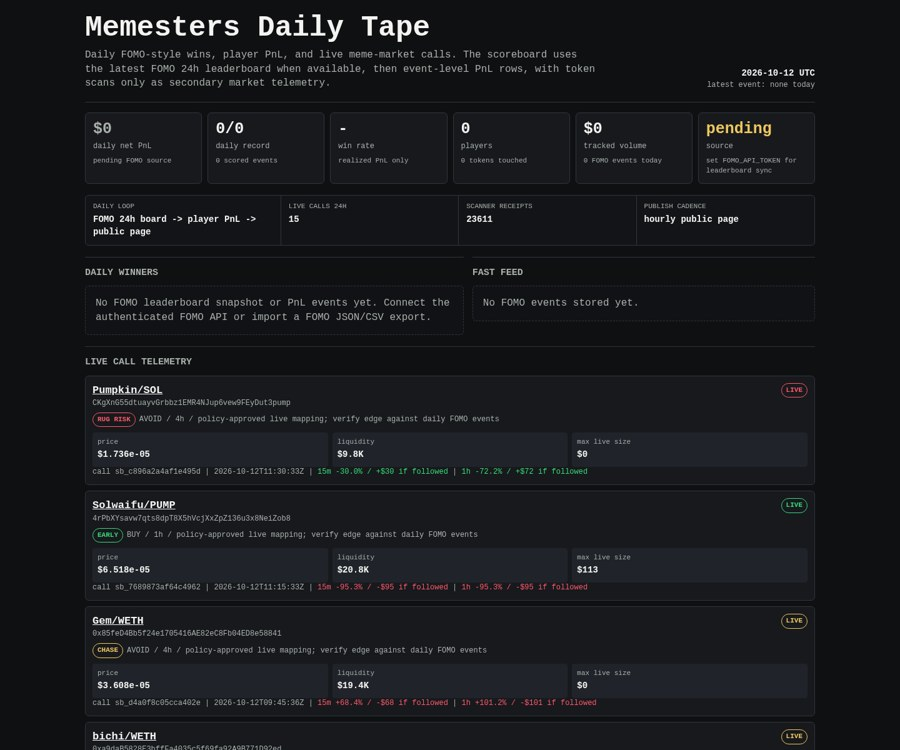
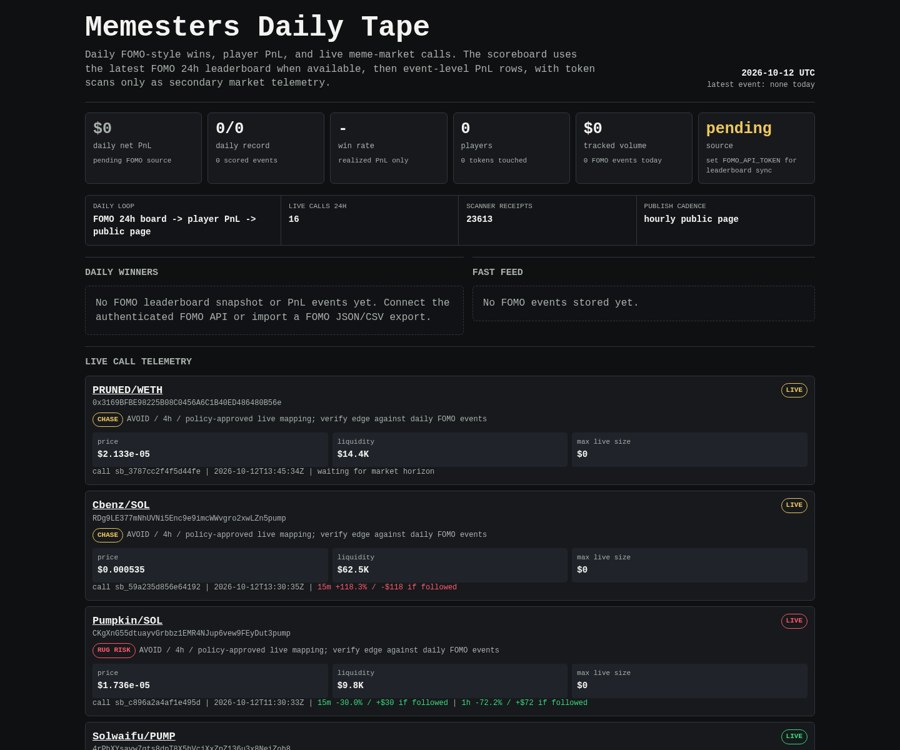
Update Memesters scoreboard

diff --git a/memesters/index.html b/memesters/index.html
@@ -149,8 +149,8 @@
 
     <div class="rail" aria-label="live operating loop">
       <div><span>daily loop</span><b>FOMO 24h board -> player PnL -> public page</b></div>
-      <div><span>live calls 24h</span><b>15</b></div>
-      <div><span>scanner receipts</span><b>23611</b></div>
+      <div><span>live calls 24h</span><b>16</b></div>
+      <div><span>scanner receipts</span><b>23613</b></div>
       <div><span>publish cadence</span><b>hourly public page</b></div>
     </div>
 
@@ -168,6 +168,48 @@
     <section style="margin-top: 18px;">
       <h2>Live Call Telemetry</h2>
       
+    <article class="receipt">
+      <div class="receipt-head">
+        <div>
+          <div class="pair"><a href="https://dexscreener.com/ethereum/0xbe0cba8c7a14c6d22000ffbb0acfc1778b2e2198c07527dd6f428ac1eff5cb42">PRUNED/WETH</a></div>
+          <div class="addr">0x3169BFBE98225B08C0456A6C1B40ED486480B56e</div>
+          <div class="addr policy-line">
+            <span class="badge chase">CHASE</span>
+            <span>AVOID / 4h / policy-approved live mapping; verify edge against daily FOMO events</span>
+          </div>
+        </div>
+        <span class="badge chase">LIVE</span>
+      </div>
+      <div class="receipt-grid">
+        <div class="kv"><span>price</span><b>$2.133e-05</b></div>
+        <div class="kv"><span>liquidity</span><b>$14.4K</b></div>
+        <div class="kv"><span>max live size</span><b>$0</b></div>
+      </div>
+      <div class="outcomes">call sb_3787cc2f4f5d44fe | 2026-10-12T13:45:34Z | waiting for market horizon</div>
+    </article>
+    
+
+    <article class="receipt">
+      <div class="receipt-head">
+        <div>
+          <div class="pair"><a href="https://dexscreener.com/solana/bdqbo36lqzjyrsnm6erxlki8hhoszawswb6nazkkaza2">Cbenz/SOL</a></div>
+          <div class="addr">RDg9LE377mNhUVNi5Enc9e9imcWWvgro2xwLZn5pump</div>
+          <div class="addr policy-line">
+            <span class="badge chase">CHASE</span>
+            <span>AVOID / 4h / policy-approved live mapping; verify edge against daily FOMO events</span>
+          </div>
+        </div>
+        <span class="badge chase">LIVE</span>
+      </div>
+      <div class="receipt-grid">
+        <div class="kv"><span>price</span><b>$0.000535</b></div>
+        <div class="kv"><span>liquidity</span><b>$62.5K</b></div>
+        <div class="kv"><span>max live size</span><b>$0</b></div>
+      </div>
+      <div class="outcomes">call sb_59a235d856e64192 | 2026-10-12T13:30:35Z | <span class="negative">15m +118.3% / -$118 if followed</span></div>
+    </article>
+    
+
     <article class="receipt">
       <div class="receipt-head">
         <div>
@@ -227,7 +269,7 @@
         <div class="kv"><span>liquidity</span><b>$19.4K</b></div>
         <div class="kv"><span>max live size</span><b>$0</b></div>
       </div>
-      <div class="outcomes">call sb_d4a0f8c05cca402e | 2026-10-12T09:45:36Z | <span class="negative">15m +68.4% / -$68 if followed</span> | <span class="negative">1h +101.2% / -$101 if followed</span></div>
+      <div class="outcomes">call sb_d4a0f8c05cca402e | 2026-10-12T09:45:36Z | <span class="negative">15m +68.4% / -$68 if followed</span> | <span class="negative">1h +101.2% / -$101 if followed</span> | <span class="negative">4h +210.4% / -$210 if followed</span></div>
     </article>
     
 
@@ -248,7 +290,7 @@
         <div class="kv"><span>liquidity</span><b>$87.6K</b></div>
         <div class="kv"><span>max live size</span><b>$0</b></div>
       </div>
-      <div class="outcomes">call sb_d8b2374f745c4364 | 2026-10-12T09:00:37Z | <span class="positive">15m -0.0% / +$0 if followed</span> | <span class="positive">1h -71.0% / +$71 if followed</span></div>
+      <div class="outcomes">call sb_d8b2374f745c4364 | 2026-10-12T09:00:37Z | <span class="positive">15m -0.0% / +$0 if followed</span> | <span class="positive">1h -71.0% / +$71 if followed</span> | <span class="positive">4h -72.9% / +$73 if followed</span></div>
     </article>
     
 
@@ -333,48 +375,6 @@
         <div class="kv"><span>max live size</span><b>$0</b></div>
       </div>
       <div class="outcomes">call sb_46da4f29c64e453f | 2026-10-12T00:15:34Z | <span class="negative">15m +54.3% / -$54 if followed</span> | <span class="negative">1h +198.5% / -$199 if followed</span> | <span class="positive">4h -67.8% / +$68 if followed</span></div>
-    </article>
-    
-
-    <article class="receipt">
-      <div class="receipt-head">
-        <div>
-          <div class="pair"><a href="https://dexscreener.com/solana/9jk8zierba3dscuy5i9we4u7vkvenoruvzmtmobim2n">ZCYBERLEEK/SOL</a></div>
-          <div class="addr">3fm2FrscNq1fxBhBaeUazgZiXcJFdMx73gMroZGMpump</div>
-          <div class="addr policy-line">
-            <span class="badge rug-risk">RUG RISK</span>
-            <span>AVOID / 4h / policy-approved live mapping; verify edge against daily FOMO events</span>
-          </div>
-        </div>
-        <span class="badge rug-risk">LIVE</span>
-      </div>
-      <div class="receipt-grid">
-        <div class="kv"><span>price</span><b>$3.499e-05</b></div>
-        <div class="kv"><span>liquidity</span><b>$14.5K</b></div>
-        <div class="kv"><span>max live size</span><b>$0</b></div>
-      </div>
-      <div class="outcomes">call sb_661aa28ce8584e02 | 2026-10-11T21:30:35Z | <span class="positive">15m -93.8% / +$94 if followed</span> | <span class="positive">1h -93.6% / +$94 if followed</span> | <span class="positive">4h -93.5% / +$94 if followed</span></div>
-    </article>
-    
-
-    <article class="receipt">
-      <div class="receipt-head">
-        <div>
-          <div class="pair"><a href="https://dexscreener.com/solana/fykknswas79cx7sfkqjfkfnozev62bgzncdrlyq9nfd7">[as]/SOL</a></div>
-          <div class="addr">EHEwCZMPYY4JabgvKBTfro66NTR6QQJZ79594XP2pump</div>
-          <div class="addr policy-line">
-            <span class="badge chase">CHASE</span>
-            <span>AVOID / 4h / policy-approved live mapping; verify edge against daily FOMO events</span>
-          </div>
-        </div>
-        <span class="badge chase">LIVE</span>
-      </div>
-      <div class="receipt-grid">
-        <div class="kv"><span>price</span><b>$0.0001127</b></div>
-        <div class="kv"><span>liquidity</span><b>$28.6K</b></div>
-        <div class="kv"><span>max live size</span><b>$0</b></div>
-      </div>
-      <div class="outcomes">call sb_9b7da1a4413142a6 | 2026-10-11T20:45:34Z | <span class="positive">15m -89.9% / +$90 if followed</span> | <span class="positive">1h -97.0% / +$97 if followed</span> | <span class="positive">4h -97.1% / +$97 if followed</span></div>
     </article>
     
     </section>
